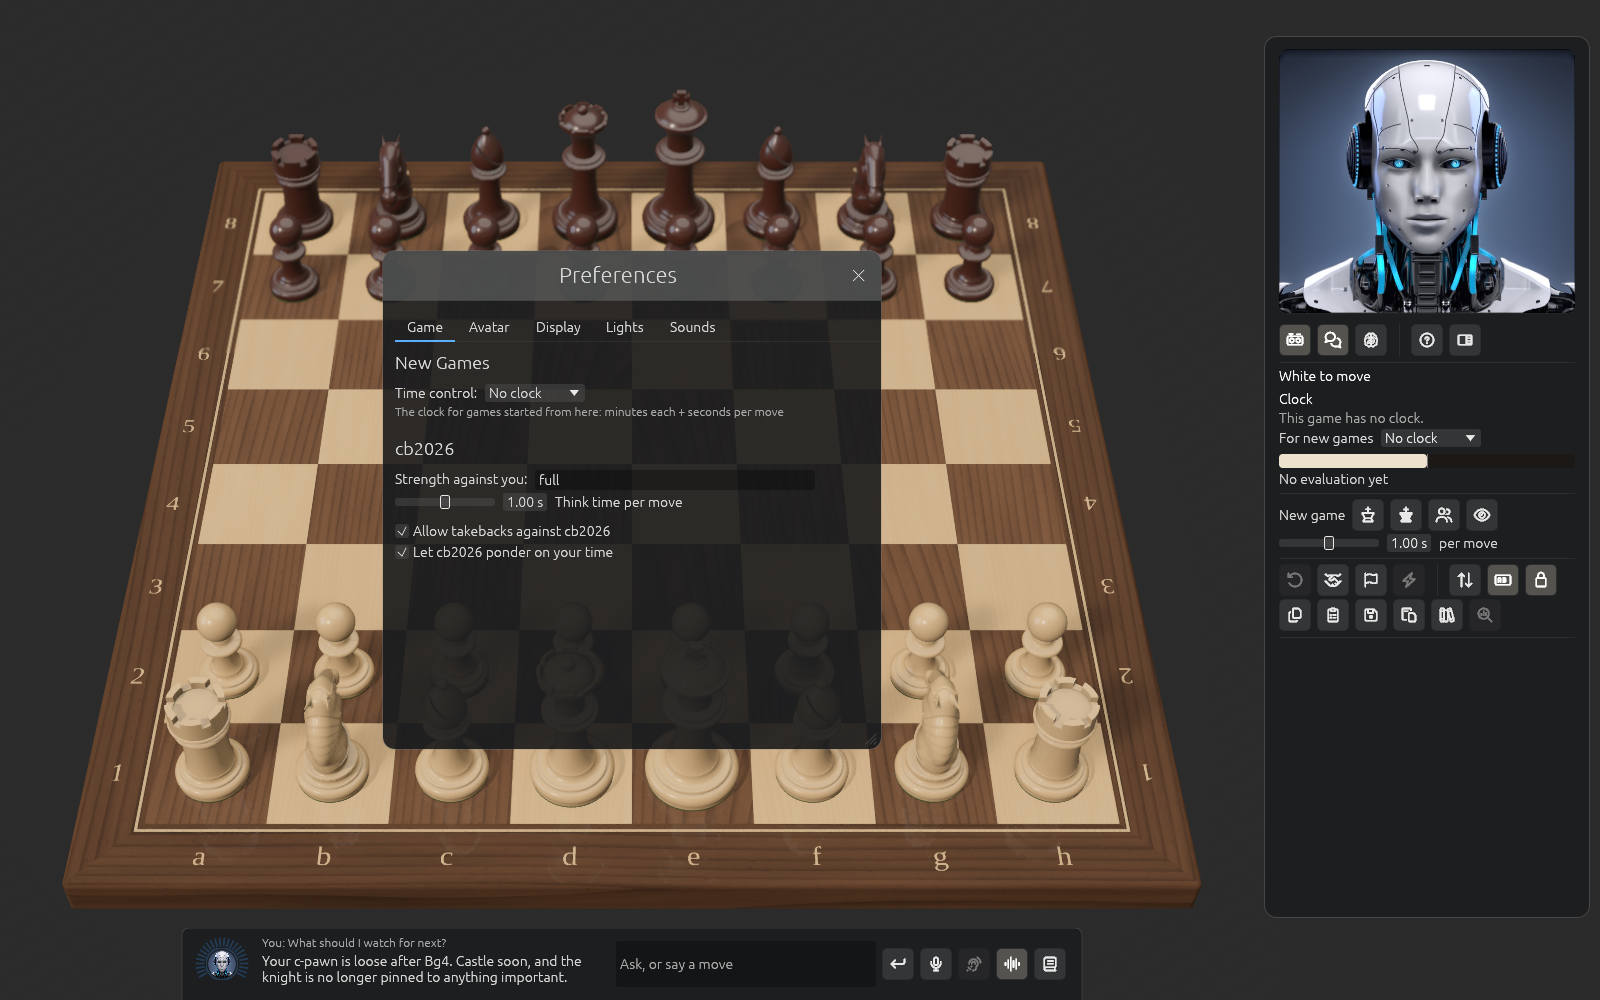
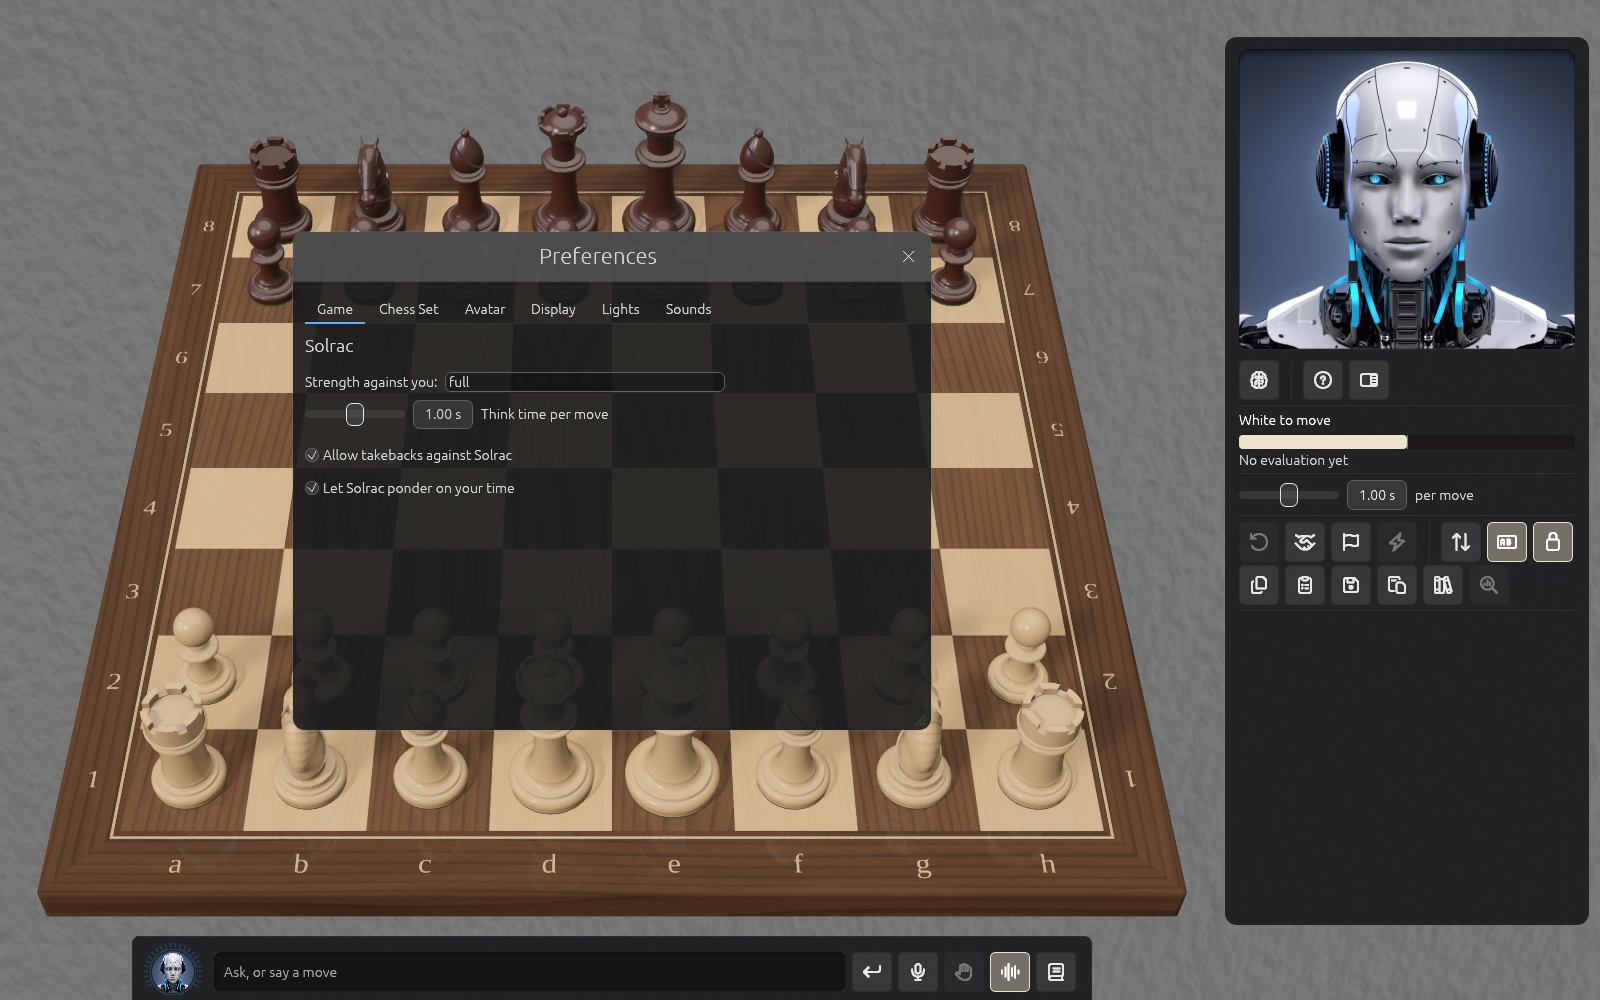
Preferences: the Chess Set tab (board and clock), and the tab bar in every picture

diff --git a/book/src/preferences.md b/book/src/preferences.md
@@ -12,6 +12,15 @@ The tabs, in order:
   (when a clock is running, the game's clock decides how long it thinks), **Allow takebacks
   against cb2026**, and **Let cb2026 ponder on your time** (greyed out if your cb2026 can't).
 
+## Chess Set
+
+![Preferences, the Chess Set tab](images/preferences-chess-set.png)
+
+- **Board**: **Chess set** (Classic wood, Ebony + maple, Jade + Verde, Nero + Greige) and
+  **Show board coordinates** (a–h, 1–8).
+- **Chess clock**: the colour of the clock's shell, from the picker or a swatch: Original
+  black, Cognac or Burgundy. **Reset** brings the black back.
+
 ## Avatar
 
 ![Preferences, the Avatar tab](images/preferences-avatar.png)
@@ -33,8 +42,6 @@ The tabs, in order:
 ![Preferences, the Display tab](images/preferences-display.png)
 
 - **Text**: size from 90 to 150 % (also ⌘+ and ⌘−).
-- **Board**: **Chess set** (Classic wood, Ebony + maple, Jade + Verde, Nero + Greige) and
-  **Show board coordinates** (a–h, 1–8).
 - **Move List**: **Figurines for the pieces** (♞f3 instead of Nf3) and the layout, table or
   book.
 - **Chess Clock**: which side of the board it stands on, and the [colour of its shell](#clock-colour).
